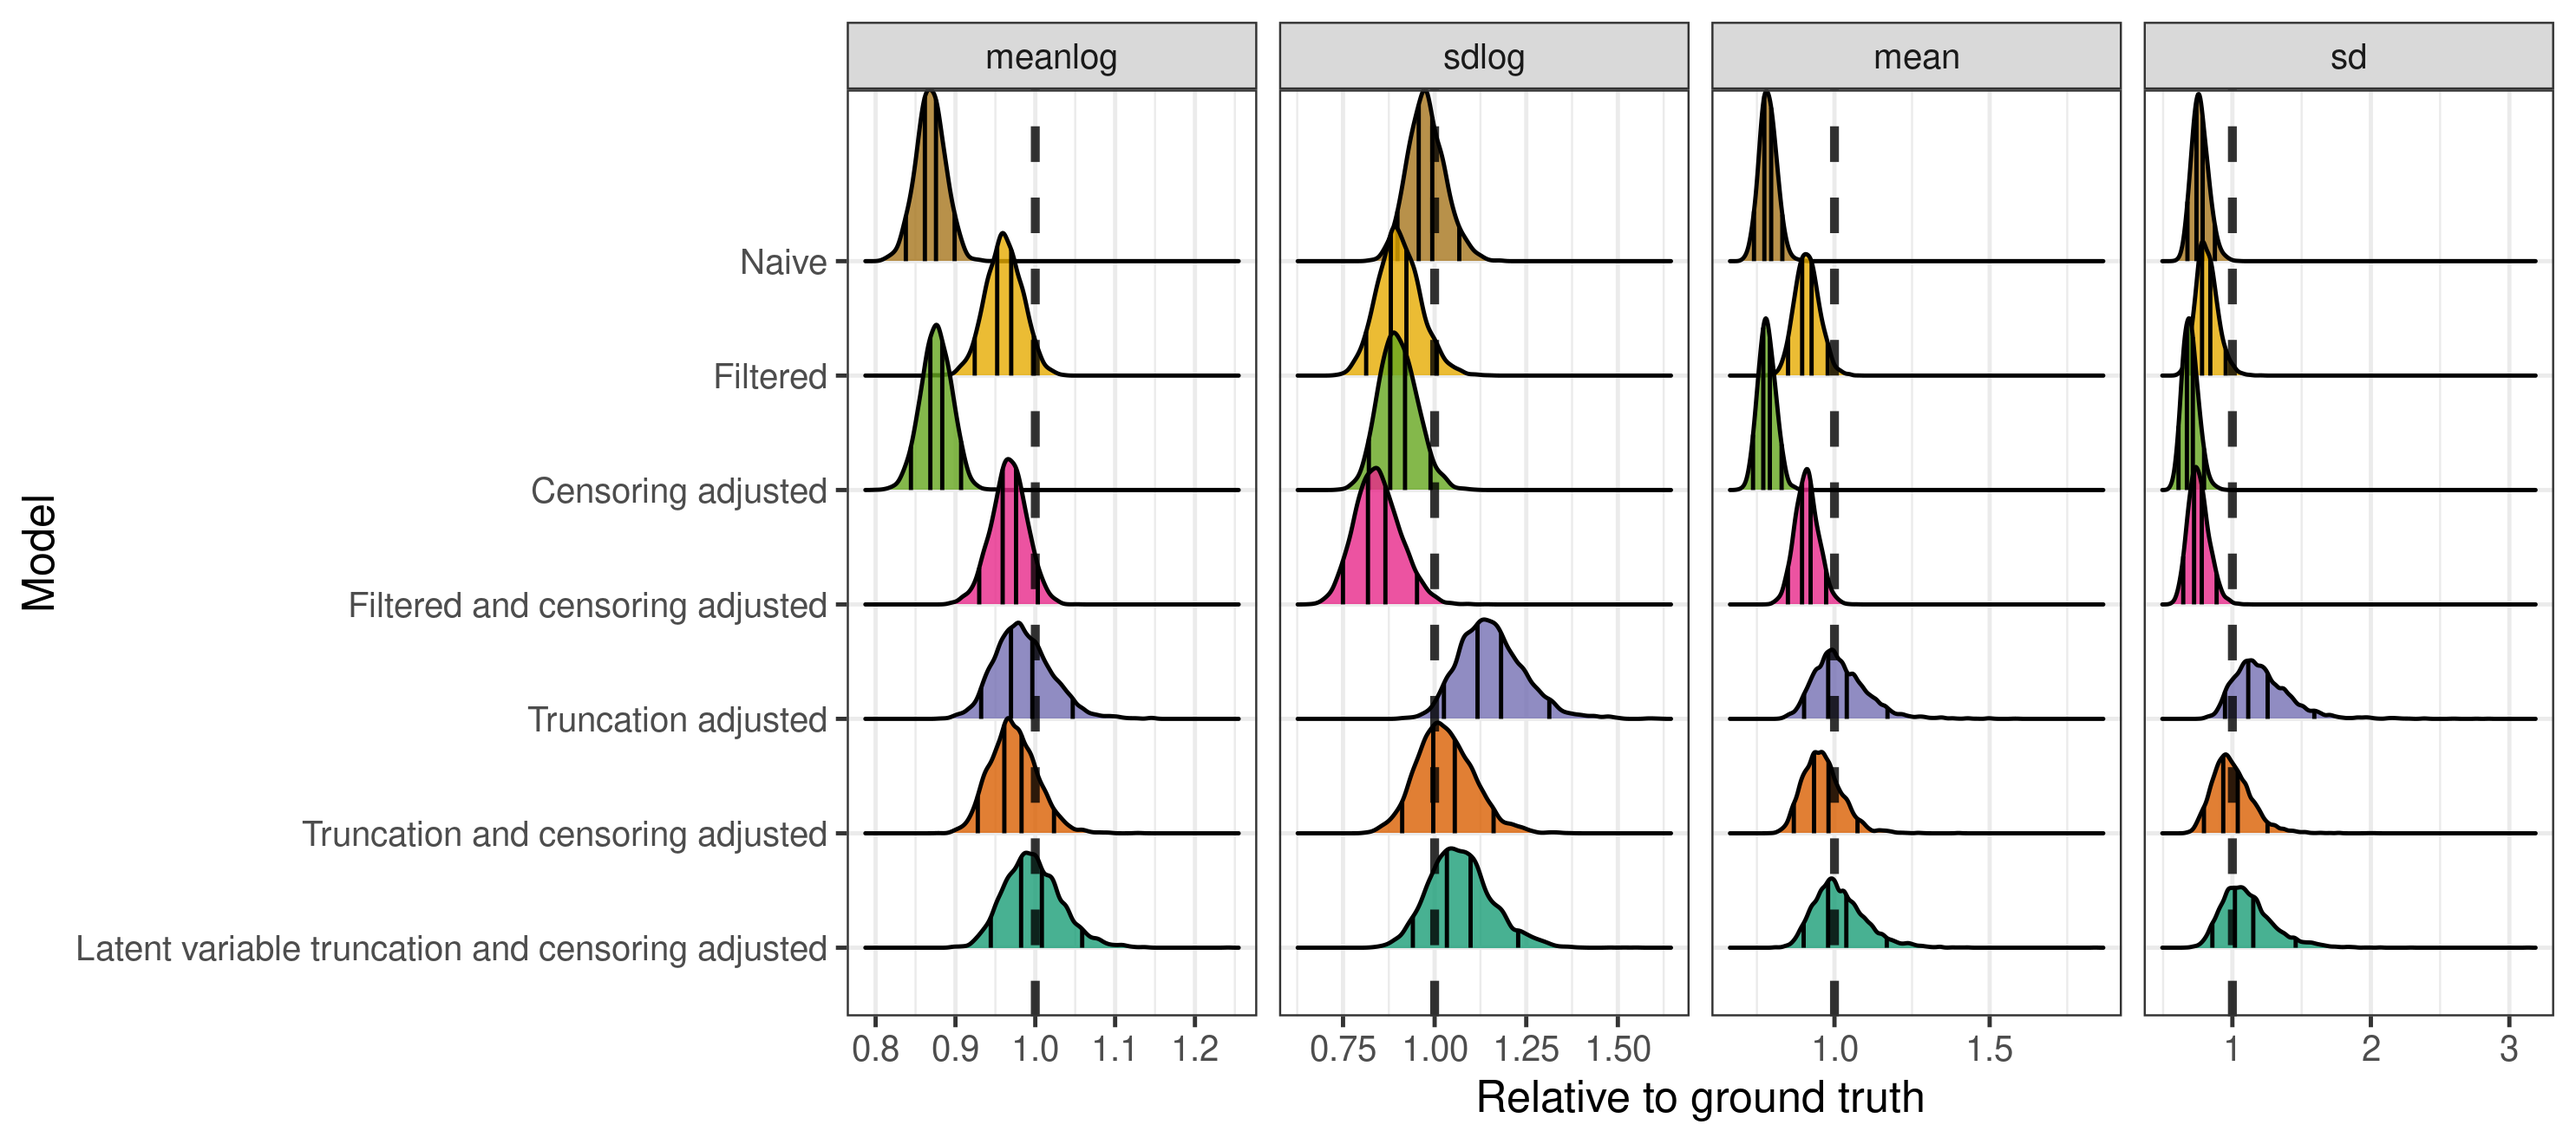
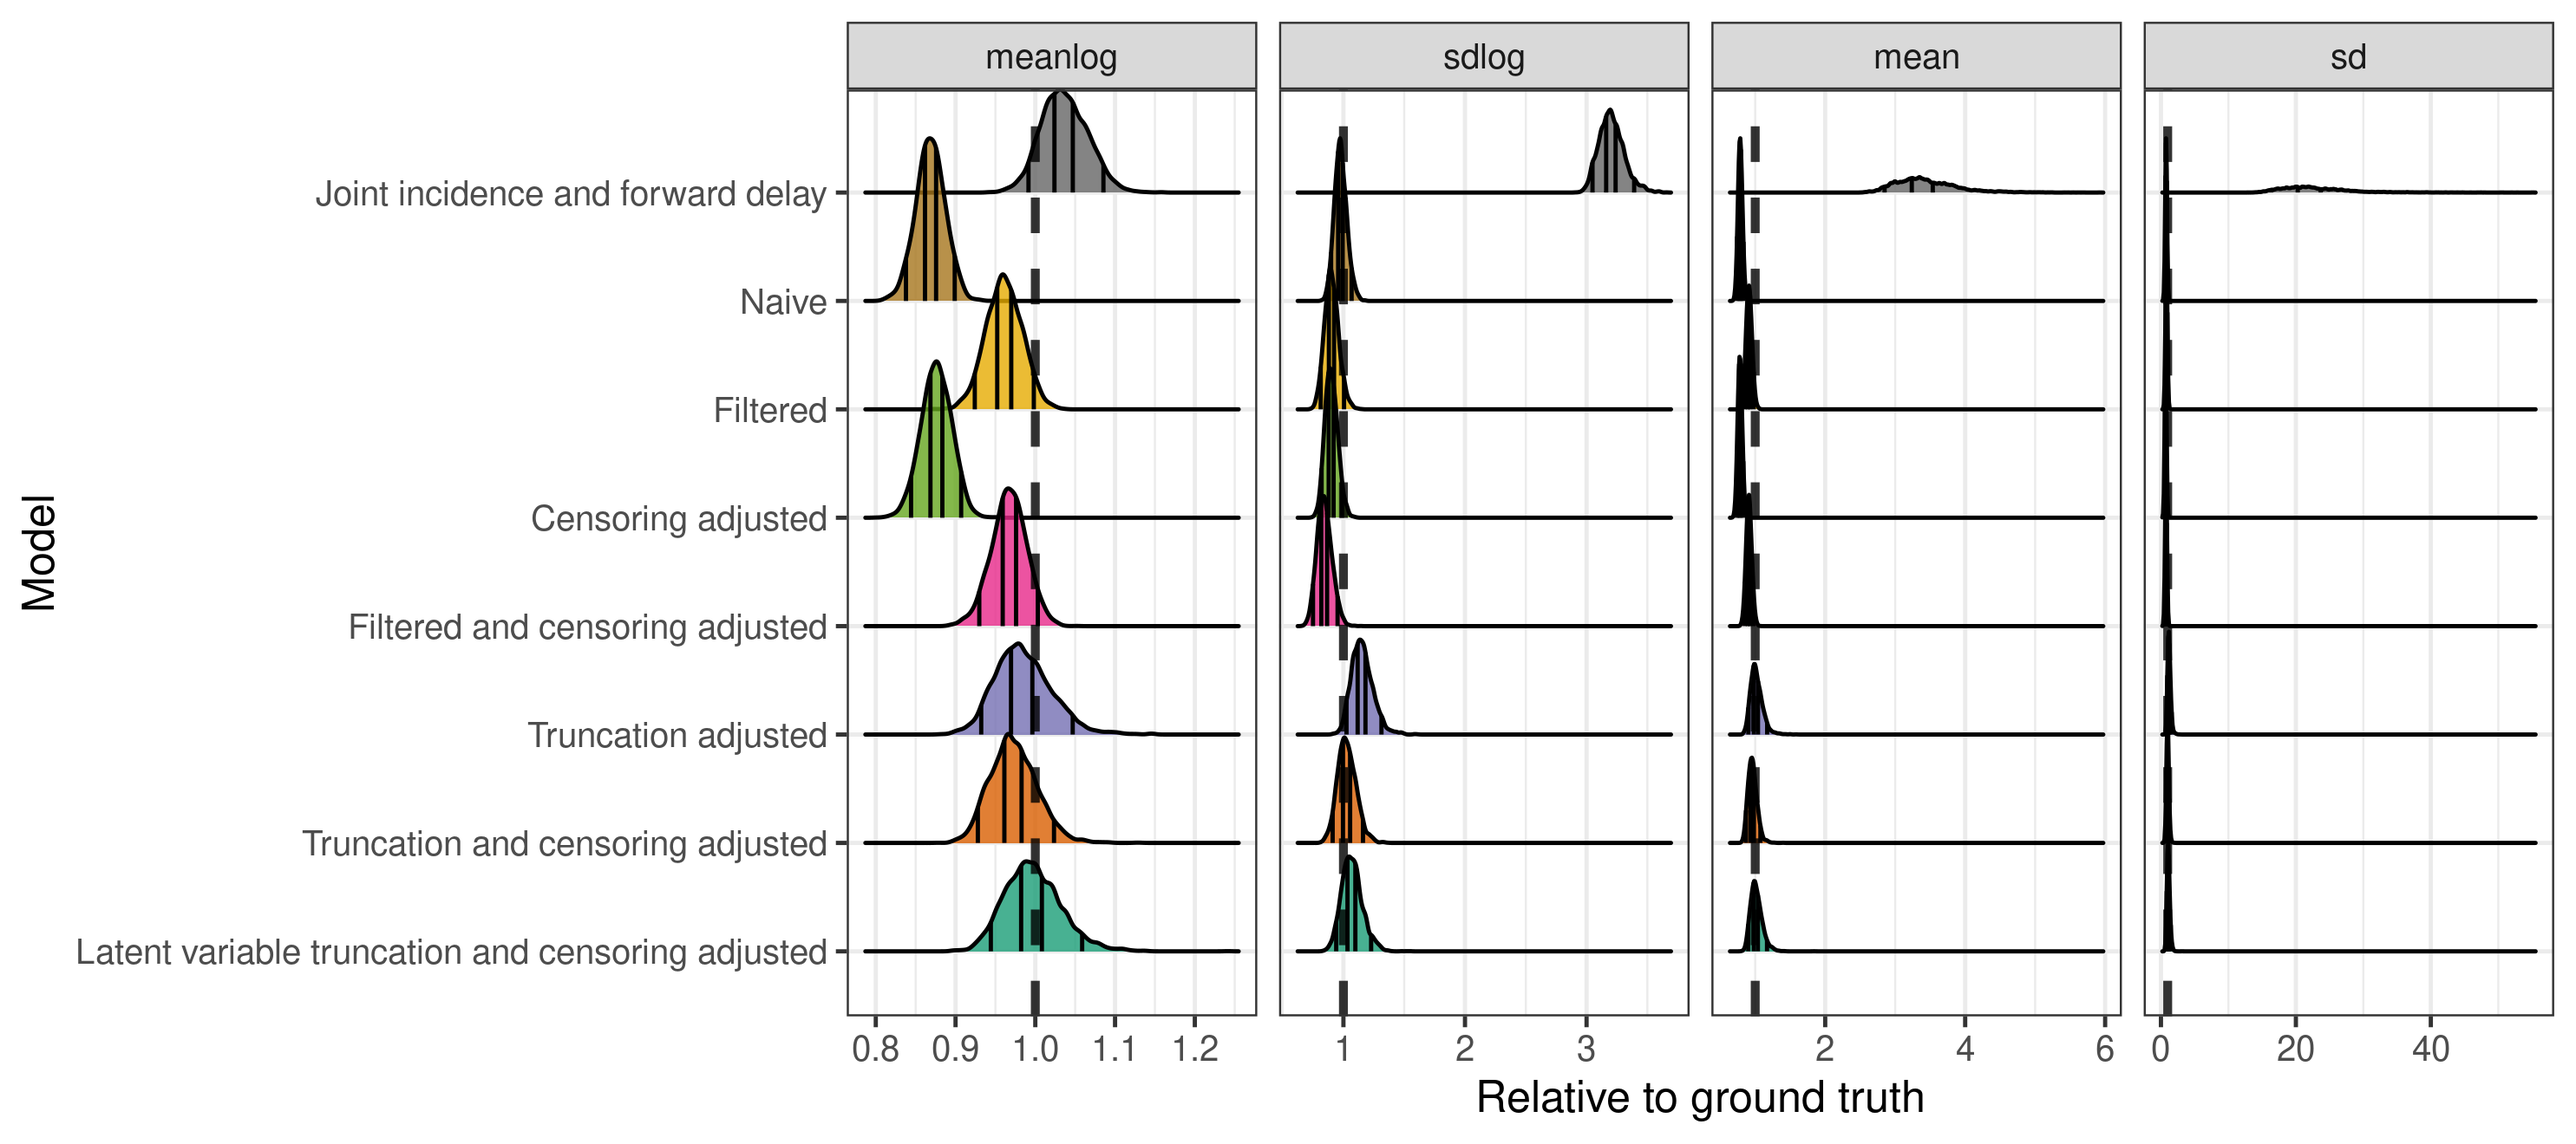
updated README including epinowcast

diff --git a/README.md b/README.md
@@ -110,7 +110,7 @@ naive_fit <- naive_delay(data = truncated_obs, cores = 4, refresh = 0)
 #> Running MCMC with 4 parallel chains...
 #> 
 #> Chain 1 finished in 0.2 seconds.
-#> Chain 2 finished in 0.2 seconds.
+#> Chain 2 finished in 0.1 seconds.
 #> Chain 3 finished in 0.1 seconds.
 #> Chain 4 finished in 0.1 seconds.
 #> 
@@ -152,8 +152,8 @@ censored_fit <- censoring_adjusted_delay(
 #> Chain 3 finished in 0.6 seconds.
 #> 
 #> All 4 chains finished successfully.
-#> Mean chain execution time: 0.6 seconds.
-#> Total execution time: 0.7 seconds.
+#> Mean chain execution time: 0.5 seconds.
+#> Total execution time: 0.8 seconds.
 ```
 
 Adjust for censoring and filter to crudely adjust for right truncation.
@@ -166,7 +166,7 @@ filtered_censored_fit <- filtered_censoring_adjusted_delay(
 #> 
 #> Chain 1 finished in 0.3 seconds.
 #> Chain 2 finished in 0.3 seconds.
-#> Chain 3 finished in 0.4 seconds.
+#> Chain 3 finished in 0.3 seconds.
 #> Chain 4 finished in 0.3 seconds.
 #> 
 #> All 4 chains finished successfully.
@@ -183,9 +183,9 @@ truncation_fit <- truncation_adjusted_delay(
 #> Running MCMC with 4 parallel chains...
 #> 
 #> Chain 1 finished in 0.7 seconds.
+#> Chain 3 finished in 0.8 seconds.
 #> Chain 4 finished in 0.7 seconds.
 #> Chain 2 finished in 0.8 seconds.
-#> Chain 3 finished in 0.8 seconds.
 #> 
 #> All 4 chains finished successfully.
 #> Mean chain execution time: 0.7 seconds.
@@ -207,7 +207,7 @@ truncation_censoring_fit <- truncation_censoring_adjusted_delay(
 #> 
 #> All 4 chains finished successfully.
 #> Mean chain execution time: 1.0 seconds.
-#> Total execution time: 1.2 seconds.
+#> Total execution time: 1.3 seconds.
 ```
 
 Adjust for right truncation and date censoring using a latent variable
@@ -219,14 +219,14 @@ latent_truncation_censoring_fit <- latent_truncation_censoring_adjusted_delay(
 )
 #> Running MCMC with 4 parallel chains...
 #> 
+#> Chain 1 finished in 3.4 seconds.
 #> Chain 2 finished in 3.4 seconds.
 #> Chain 3 finished in 3.4 seconds.
 #> Chain 4 finished in 3.3 seconds.
-#> Chain 1 finished in 3.5 seconds.
 #> 
 #> All 4 chains finished successfully.
 #> Mean chain execution time: 3.4 seconds.
-#> Total execution time: 3.6 seconds.
+#> Total execution time: 3.5 seconds.
 ```
 
 Fit a joint model to estimate primary incidence and the delay to
@@ -236,47 +236,38 @@ reporting secondary incidence (this is a thin wrapper around the
 ``` r
 epinowcast_fit <- epinowcast_delay(
   data = truncated_obs, parallel_chains = 4, adapt_delta = 0.95,
-  show_messages = TRUE, refresh = 0
+  show_messages = FALSE, refresh = 0
 )
 #> Running MCMC with 4 parallel chains...
 #> 
-#> Chain 4 finished in 9.3 seconds.
+#> Chain 4 finished in 9.4 seconds.
 #> Chain 3 finished in 9.5 seconds.
+#> Chain 2 finished in 9.6 seconds.
 #> Chain 1 finished in 9.7 seconds.
-#> Chain 2 finished in 9.7 seconds.
 #> 
 #> All 4 chains finished successfully.
 #> Mean chain execution time: 9.5 seconds.
 #> Total execution time: 9.8 seconds.
-
-summary(epinowcast_fit, type = "fit") |>
-  DT(variable %in% c("refp_mean_int[1]", "refp_sd_int[1]"))
-#>            variable      mean    median         sd        mad        q5
-#>              <char>     <num>     <num>      <num>      <num>     <num>
-#> 1: refp_mean_int[1] 1.8659783 1.8633050 0.05242735 0.05319569 1.7846185
-#> 2:   refp_sd_int[1] 0.4712699 0.4693385 0.03219485 0.03169354 0.4216105
-#>          q20       q80       q95     rhat ess_bulk ess_tail
-#>        <num>     <num>     <num>    <num>    <num>    <num>
-#> 1: 1.8216680 1.9109040 1.9537510 1.001308 1858.106 2164.185
-#> 2: 0.4440106 0.4974102 0.5280992 1.002284 1790.986 1888.790
+epinowcast_draws <- extract_epinowcast_draws(epinowcast_fit) |>
+  DT(, model := "Joint incidence and forward delay")
 ```
 
-### Summarise model posteriors and compare to known truth
-
-Combine models into a named list.
-
-``` r
-models <- list(
-  "Naive" = naive_fit,
-  "Filtered" = filtered_fit,
-  "Censoring adjusted" = censored_fit,
-  "Filtered and censoring adjusted" = filtered_censored_fit,
-  "Truncation adjusted" = truncation_fit,
-  "Truncation and censoring adjusted" = truncation_censoring_fit,
-  "Latent variable truncation and censoring adjusted" =
-    latent_truncation_censoring_fit
-)
-```
+    ### Summarise model posteriors and compare to known truth
+    
+    Combine models into a named list.
+    
+    
+    ```r
+    models <- list(
+      "Naive" = naive_fit,
+      "Filtered" = filtered_fit,
+      "Censoring adjusted" = censored_fit,
+      "Filtered and censoring adjusted" = filtered_censored_fit,
+      "Truncation adjusted" = truncation_fit,
+      "Truncation and censoring adjusted" = truncation_censoring_fit,
+      "Latent variable truncation and censoring adjusted" =
+        latent_truncation_censoring_fit
+    )
 
 Extract and summarise lognormal posterior estimates.
 
@@ -284,7 +275,12 @@ Extract and summarise lognormal posterior estimates.
 draws <- models |>
   map(extract_lognormal_draws) |>
   rbindlist(idcol = "model") |>
-  DT(, model := factor(model, levels = rev(names(models))))
+  rbind(epinowcast_draws, use.names = TRUE) |>
+  DT(,
+   model := factor(
+    model, levels = c(rev(names(models)), "Joint incidence and forward delay")
+   )
+  )
 
 summarised_draws <- draws |>
   draws_to_long() |>
@@ -302,6 +298,7 @@ knitr::kable(summarised_draws[parameter %in% c("meanlog", "sdlog")])
 | Truncation adjusted                               | meanlog   | 1.770 |  1.770 | 1.660 | 1.680 | 1.720 | 1.750 | 1.790 | 1.820 | 1.880 | 1.910 |
 | Truncation and censoring adjusted                 | meanlog   | 1.750 |  1.750 | 1.660 | 1.670 | 1.710 | 1.730 | 1.770 | 1.790 | 1.840 | 1.860 |
 | Latent variable truncation and censoring adjusted | meanlog   | 1.790 |  1.790 | 1.680 | 1.700 | 1.740 | 1.770 | 1.810 | 1.840 | 1.910 | 1.940 |
+| Joint incidence and forward delay                 | meanlog   | 1.870 |  1.860 | 1.770 | 1.780 | 1.820 | 1.840 | 1.880 | 1.910 | 1.950 | 1.970 |
 | Naive                                             | sdlog     | 0.489 |  0.487 | 0.441 | 0.449 | 0.467 | 0.478 | 0.497 | 0.510 | 0.534 | 0.544 |
 | Filtered                                          | sdlog     | 0.452 |  0.450 | 0.398 | 0.407 | 0.427 | 0.440 | 0.461 | 0.475 | 0.503 | 0.513 |
 | Censoring adjusted                                | sdlog     | 0.450 |  0.449 | 0.404 | 0.410 | 0.428 | 0.439 | 0.460 | 0.472 | 0.494 | 0.506 |
@@ -309,6 +306,7 @@ knitr::kable(summarised_draws[parameter %in% c("meanlog", "sdlog")])
 | Truncation adjusted                               | sdlog     | 0.578 |  0.574 | 0.503 | 0.513 | 0.540 | 0.559 | 0.591 | 0.613 | 0.656 | 0.676 |
 | Truncation and censoring adjusted                 | sdlog     | 0.515 |  0.512 | 0.445 | 0.456 | 0.482 | 0.498 | 0.527 | 0.547 | 0.580 | 0.599 |
 | Latent variable truncation and censoring adjusted | sdlog     | 0.536 |  0.533 | 0.460 | 0.470 | 0.500 | 0.517 | 0.549 | 0.569 | 0.614 | 0.630 |
+| Joint incidence and forward delay                 | sdlog     | 1.600 |  1.600 | 1.510 | 1.520 | 1.560 | 1.580 | 1.620 | 1.640 | 1.700 | 1.720 |
 
 Plot summarised posterior estimates from each model compared to the
 ground truth.
